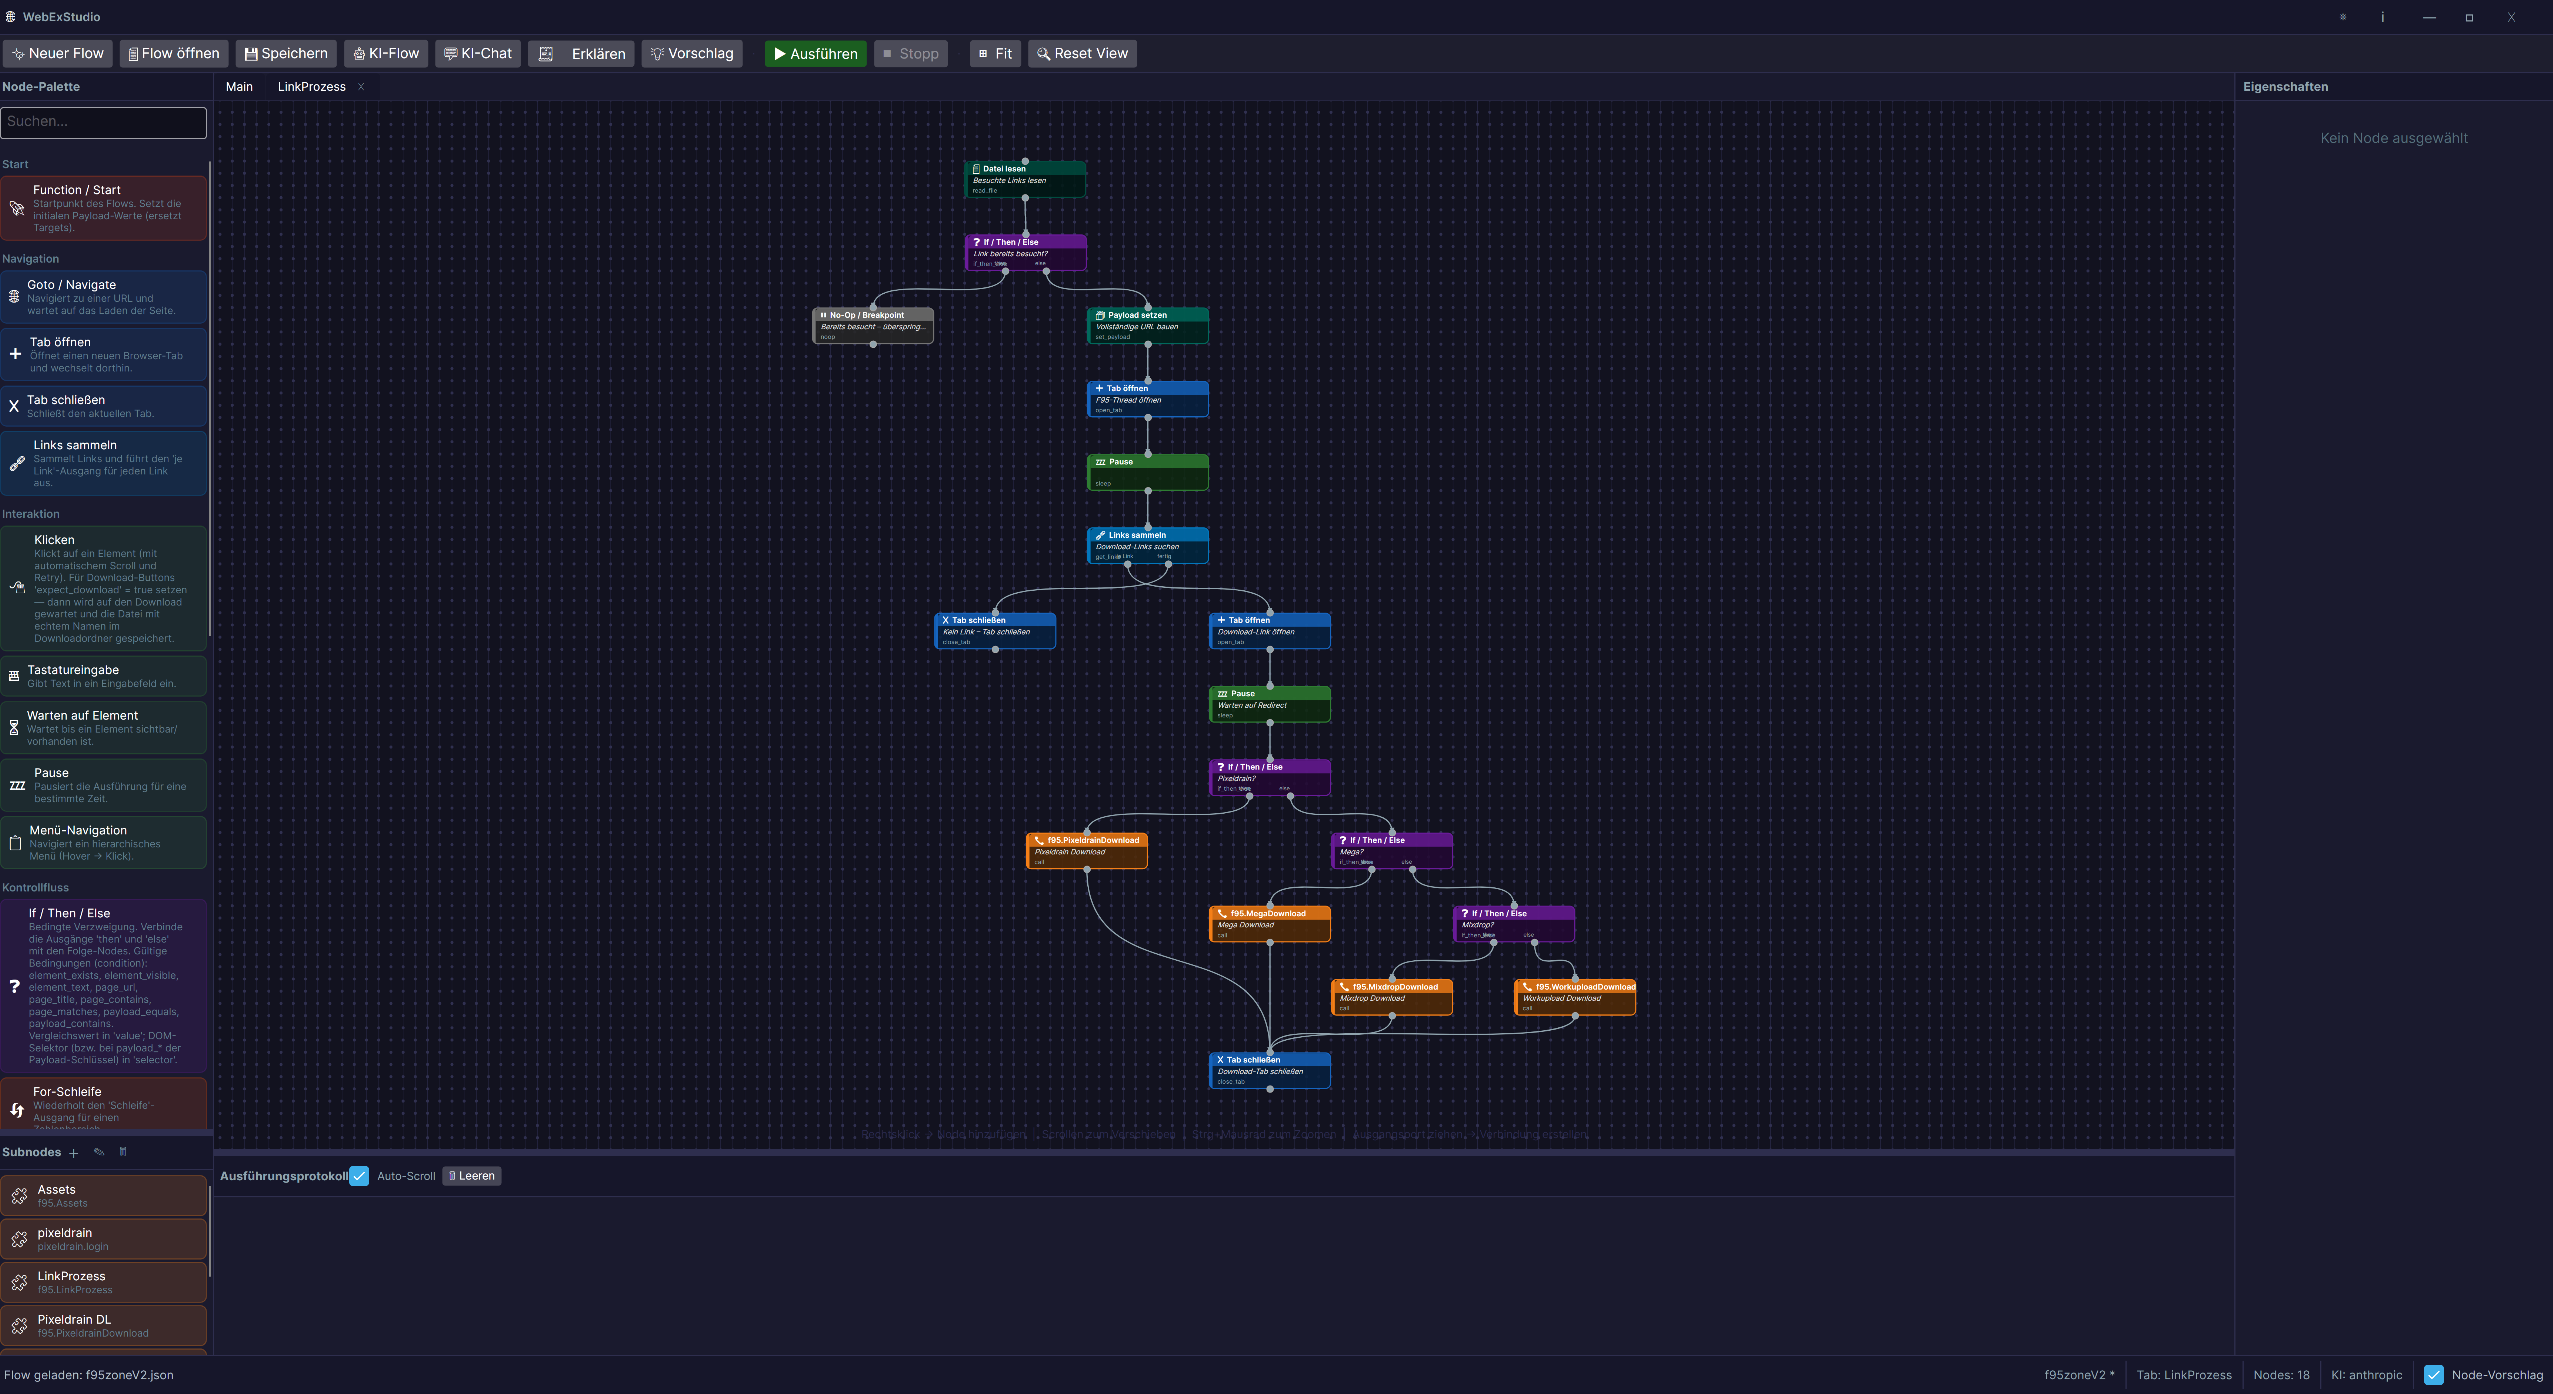
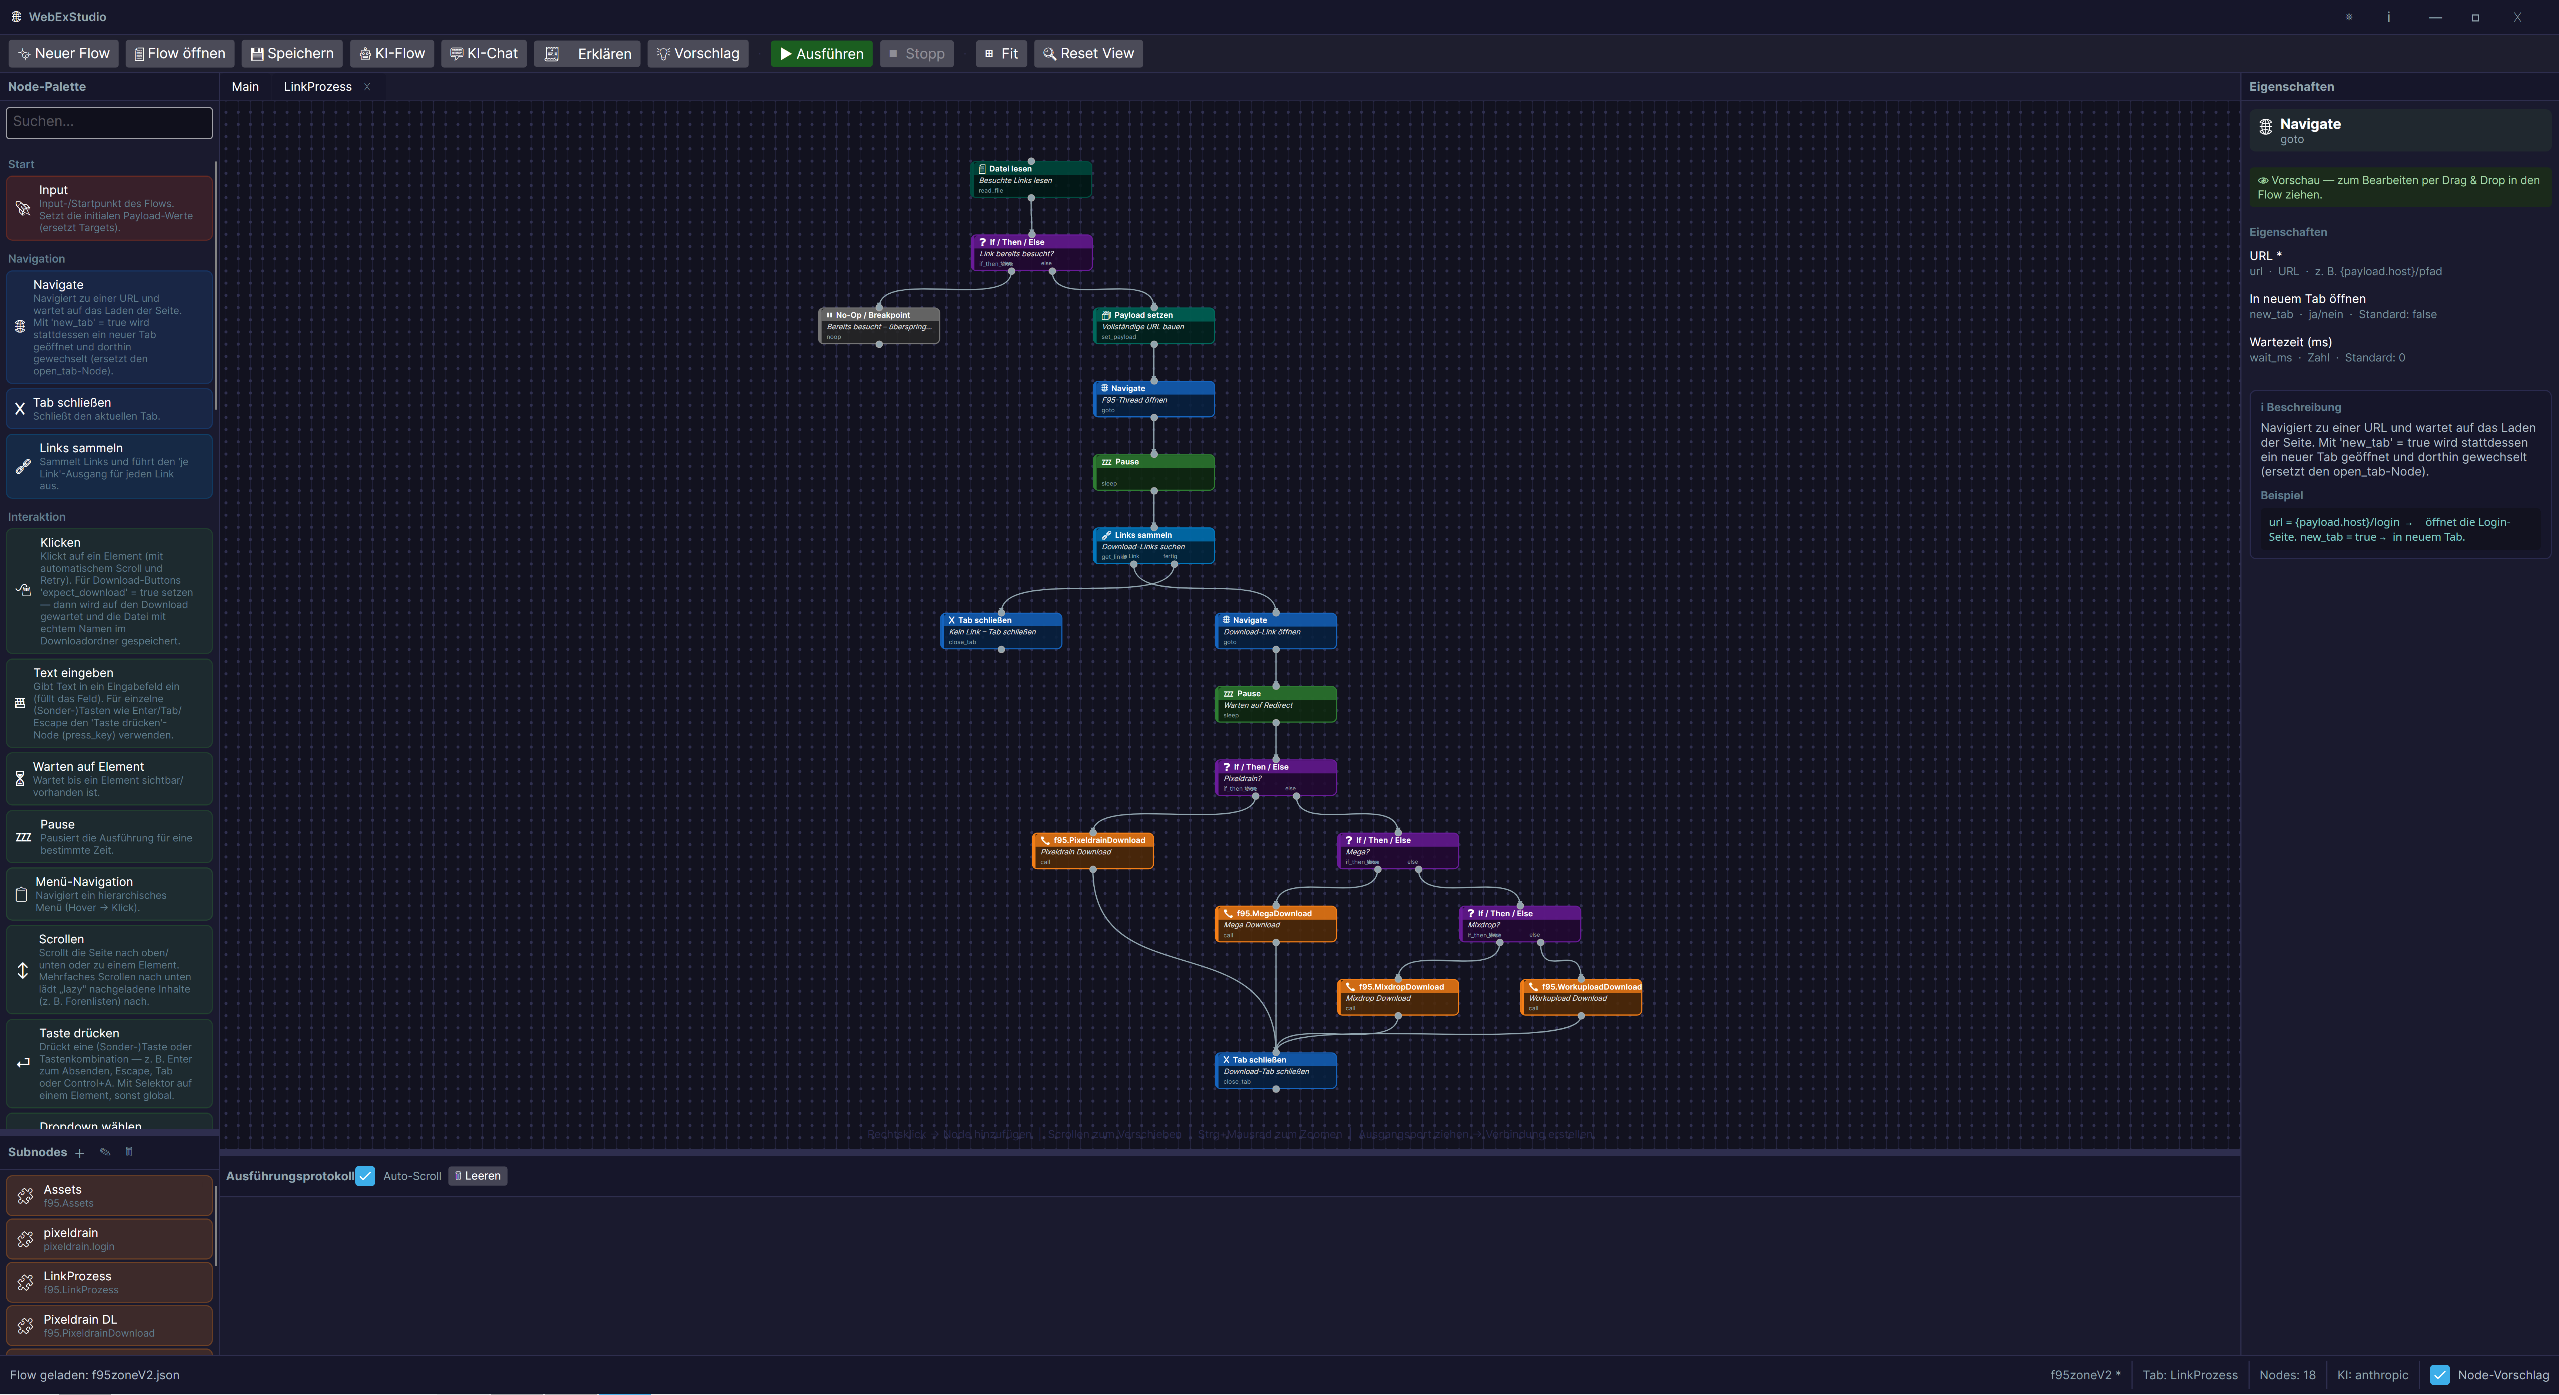
Feature: In-App-Hilfe (Kurzanleitung) + README Gruppe->Subnode
- Neues HelpWindow mit Kurzanleitung (Nodes/Palette-Vorschau, Verbinden,
  Mehrfachauswahl/Gruppieren/Subnode, Subnodes, Ausfuehren/Pause/Schritt,
  Sitzungen, KI, Tipps). Erreichbar ueber ein '? ' in der Titelleiste UND einen
  '📖 Hilfe'-Button im Ueber-Fenster.
- README: Gruppe->Subnode-Workflow, Mehrfachauswahl/Gruppieren und der
  Hilfe-Aufruf in der Bedienungs-Tabelle ergaenzt; Titelleiste um ❓ erweitert.

diff --git a/WebExStudio.UI/MainWindow.axaml.cs b/WebExStudio.UI/MainWindow.axaml.cs
@@ -38,6 +38,9 @@ public partial class MainWindow : Window
     private async void OnAbout(object? sender, Avalonia.Interactivity.RoutedEventArgs e) =>
         await new AboutWindow().ShowDialog(this);
 
+    private async void OnHelp(object? sender, Avalonia.Interactivity.RoutedEventArgs e) =>
+        await new HelpWindow().ShowDialog(this);
+
     private async void OnSettings(object? sender, Avalonia.Interactivity.RoutedEventArgs e)
     {
         var dlg = new SettingsWindow(Vm.RunConfig, Vm.AiOptions);

diff --git a/WebExStudio.UI/Views/HelpWindow.axaml.cs b/WebExStudio.UI/Views/HelpWindow.axaml.cs
@@ -1,0 +1,18 @@
+using Avalonia.Controls;
+using Avalonia.Input;
+using Avalonia.Interactivity;
+
+namespace WebExStudio.UI.Views;
+
+public partial class HelpWindow : Window
+{
+    public HelpWindow() => InitializeComponent();
+
+    private void OnTitleBarPointerPressed(object? sender, PointerPressedEventArgs e)
+    {
+        if (e.GetCurrentPoint(this).Properties.IsLeftButtonPressed)
+            BeginMoveDrag(e);
+    }
+
+    private void OnTitleClose(object? _, RoutedEventArgs e) => Close();
+}

diff --git a/WebExStudio.UI/Views/AboutWindow.axaml.cs b/WebExStudio.UI/Views/AboutWindow.axaml.cs
@@ -24,4 +24,6 @@ public partial class AboutWindow : Window
     }
 
     private void OnTitleClose(object? _, RoutedEventArgs e) => Close();
+
+    private async void OnHelp(object? _, RoutedEventArgs e) => await new HelpWindow().ShowDialog(this);
 }

diff --git a/README.md b/README.md
@@ -103,7 +103,7 @@ dotnet build          # gesamte Solution (WebExStudio.slnx)
 
 | Bereich | Zweck |
 |---|---|
-| **Titelleiste** | Eigene Fensterleiste (rahmenlos): ⚙ Einstellungen, ℹ Über, — Minimieren, ▢ Max/Restore, ✕ Schließen. Doppelklick = maximieren. |
+| **Titelleiste** | Eigene Fensterleiste (rahmenlos): ⚙ Einstellungen, ❓ Hilfe, ℹ Über, — Minimieren, ▢ Max/Restore, ✕ Schließen. Doppelklick = maximieren. |
 | **Toolbar** | Neuer/öffnen/speichern, KI-Funktionen, Ausführen/Stopp/Pause/Weiter, Fit/Reset-View. |
 | **Node-Palette** (links oben) | Alle Node-Typen nach Kategorie, durchsuchbar. **Klick = Vorschau** rechts (Eigenschaften, Hinweise, Beispiel — wird nicht eingefügt); **Ziehen = in den Flow ablegen** und dort bearbeiten. |
 | **Subnodes** (links unten) | Liste aller benannten Subnodes. Doppelklick öffnet sie als Tab; ＋ neu, ✎ umbenennen, 🗑 löschen; auf den Canvas ziehen erzeugt einen `call`-Node. |
@@ -161,7 +161,11 @@ dotnet build          # gesamte Solution (WebExStudio.slnx)
 | **Wire löschen** | Wire anklicken (wird rot) → `Entf`/`Backspace`; **oder** Rechtsklick auf den Wire → „Verbindung löschen". |
 | **Node verschieben** | Node mit der linken Maustaste ziehen. |
 | **Node löschen** | Node auswählen → `Entf`; **oder** Rechtsklick → „Node löschen". |
+| **Mehrere auswählen** | **Strg**+Klick auf mehrere Nodes; **oder** auf leerer Fläche ein **Auswahlrechteck (Gummiband)** aufziehen. |
+| **Gruppieren** | ≥ 2 Nodes auswählen → Rechtsklick auf leere Fläche → **„📦 Gruppieren"**. |
+| **Gruppe → Subnode** | Rechtsklick auf die **Kopfleiste der Gruppe** → **„📦 Subnode einrichten"** → Name + Bezeichnung. Die Nodes wandern in einen neuen Subnode-Tab; an ihrer Stelle bleibt ein `call`-Node, externe Verbindungen werden automatisch umgehängt. (Gruppen-Kopfleiste: Doppelklick = umbenennen, ziehen = verschieben, Rechtsklick → „Gruppe lösen".) |
 | **Bezeichnung vergeben** | Node auswählen → Feld **„Bezeichnung"** oben im Eigenschaften-Panel. |
+| **Hilfe / Kurzanleitung** | Titelleiste **❓**; **oder** Über-Fenster (**ℹ**) → **„📖 Hilfe / Kurzanleitung"**. |
 | **Verschieben (Pan)** | Mausrad = vertikal, **Shift**+Rad = horizontal; **oder** mittlere Maustaste / **Alt**+links ziehen. |
 | **Zoom** | **Strg**+Mausrad. |
 | **Ansicht zurücksetzen / einpassen** | Toolbar **🔍 Reset View** / **⊞ Fit**. |
